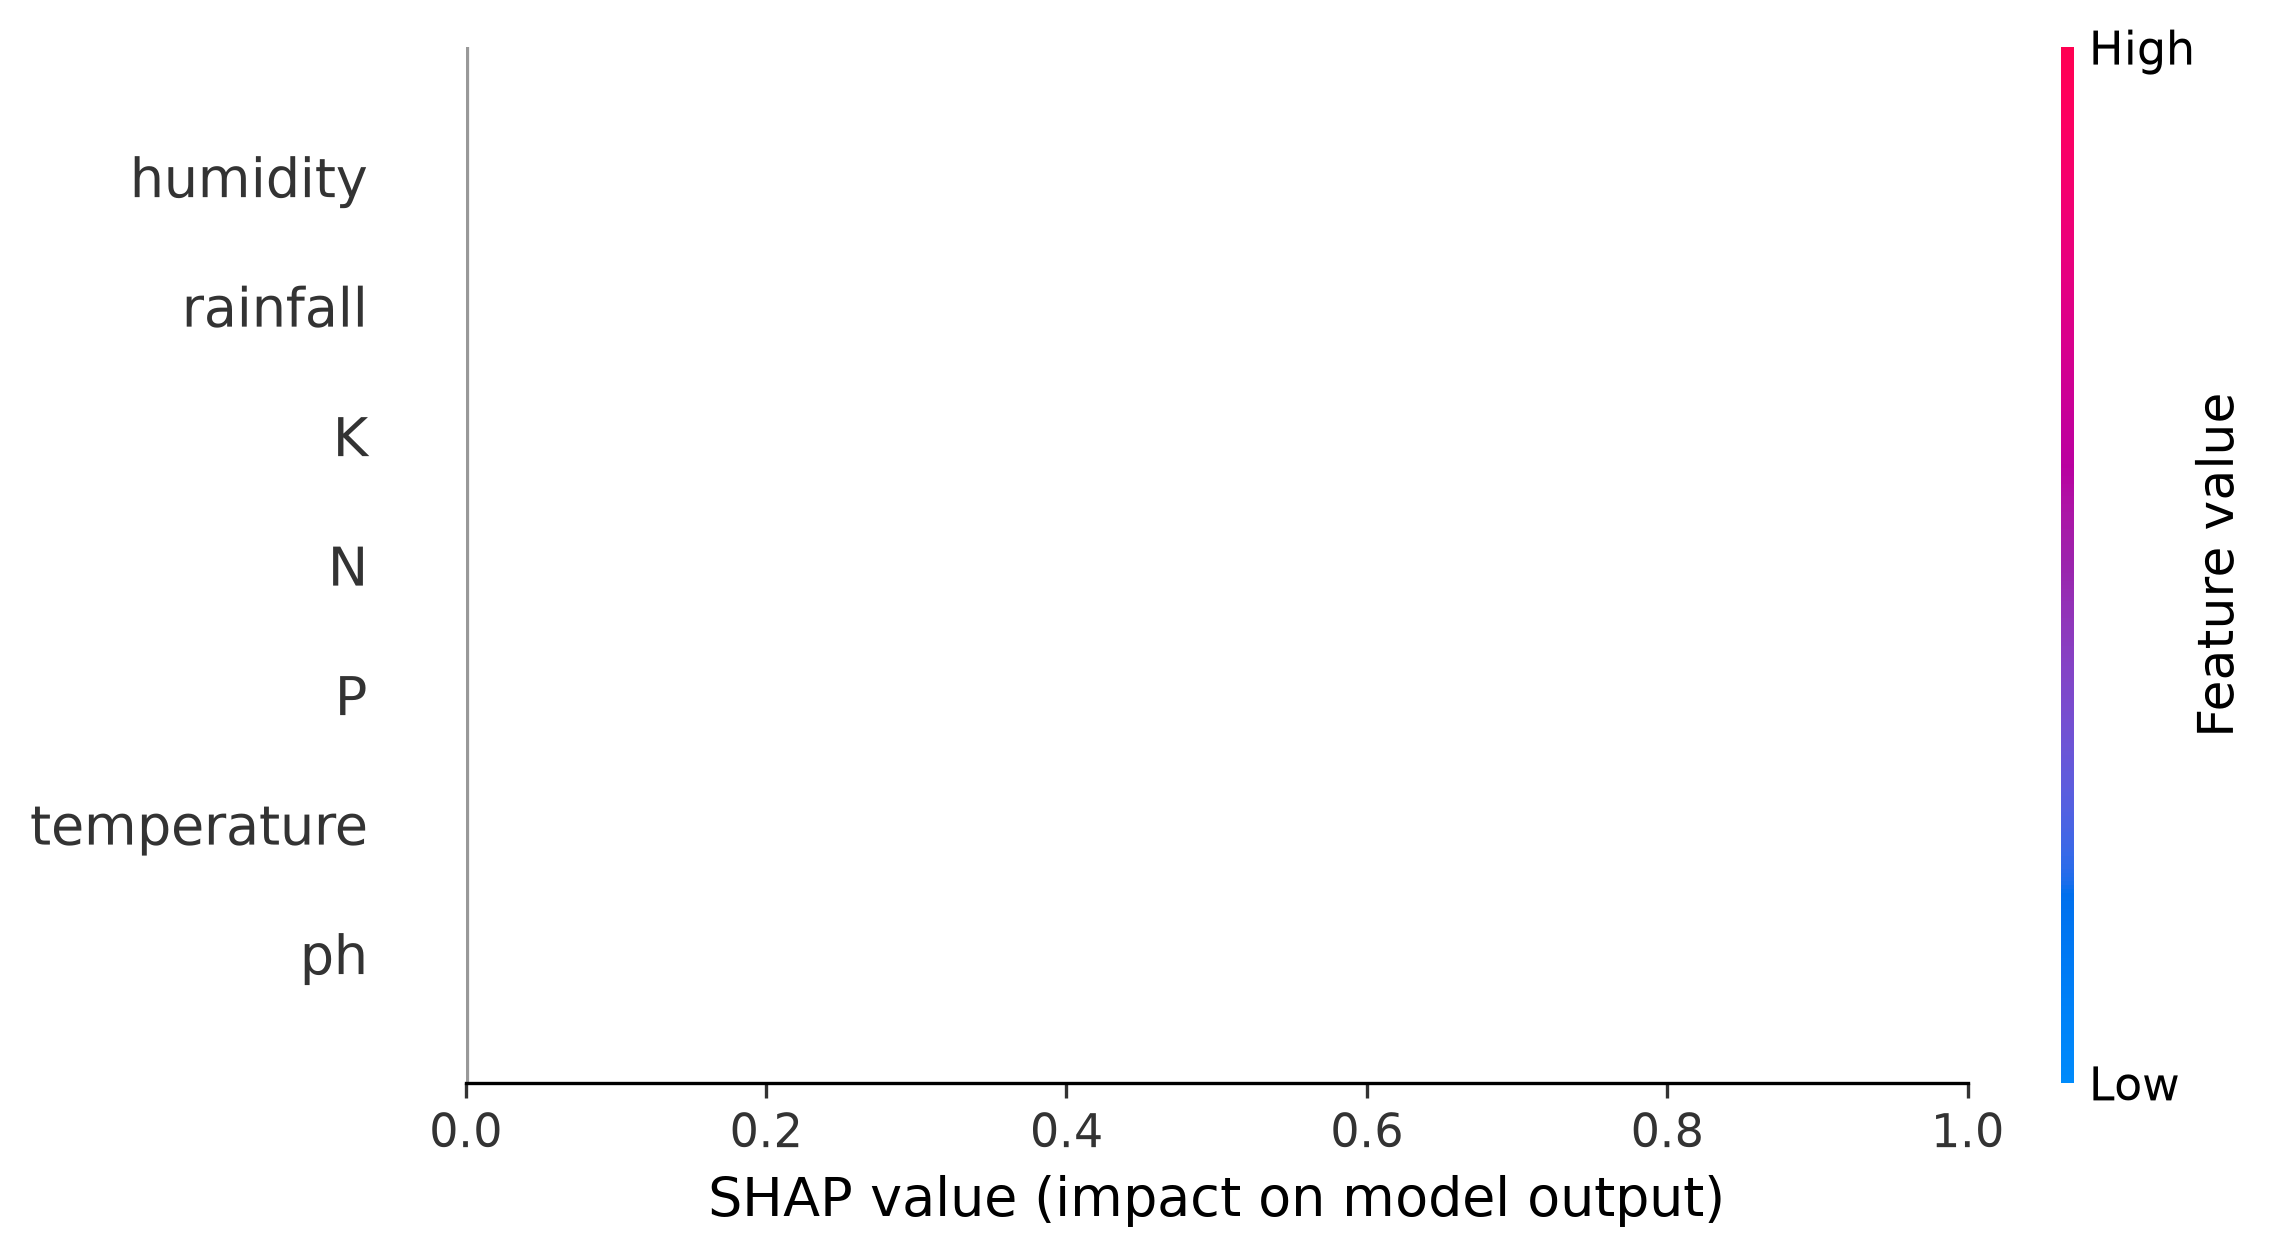
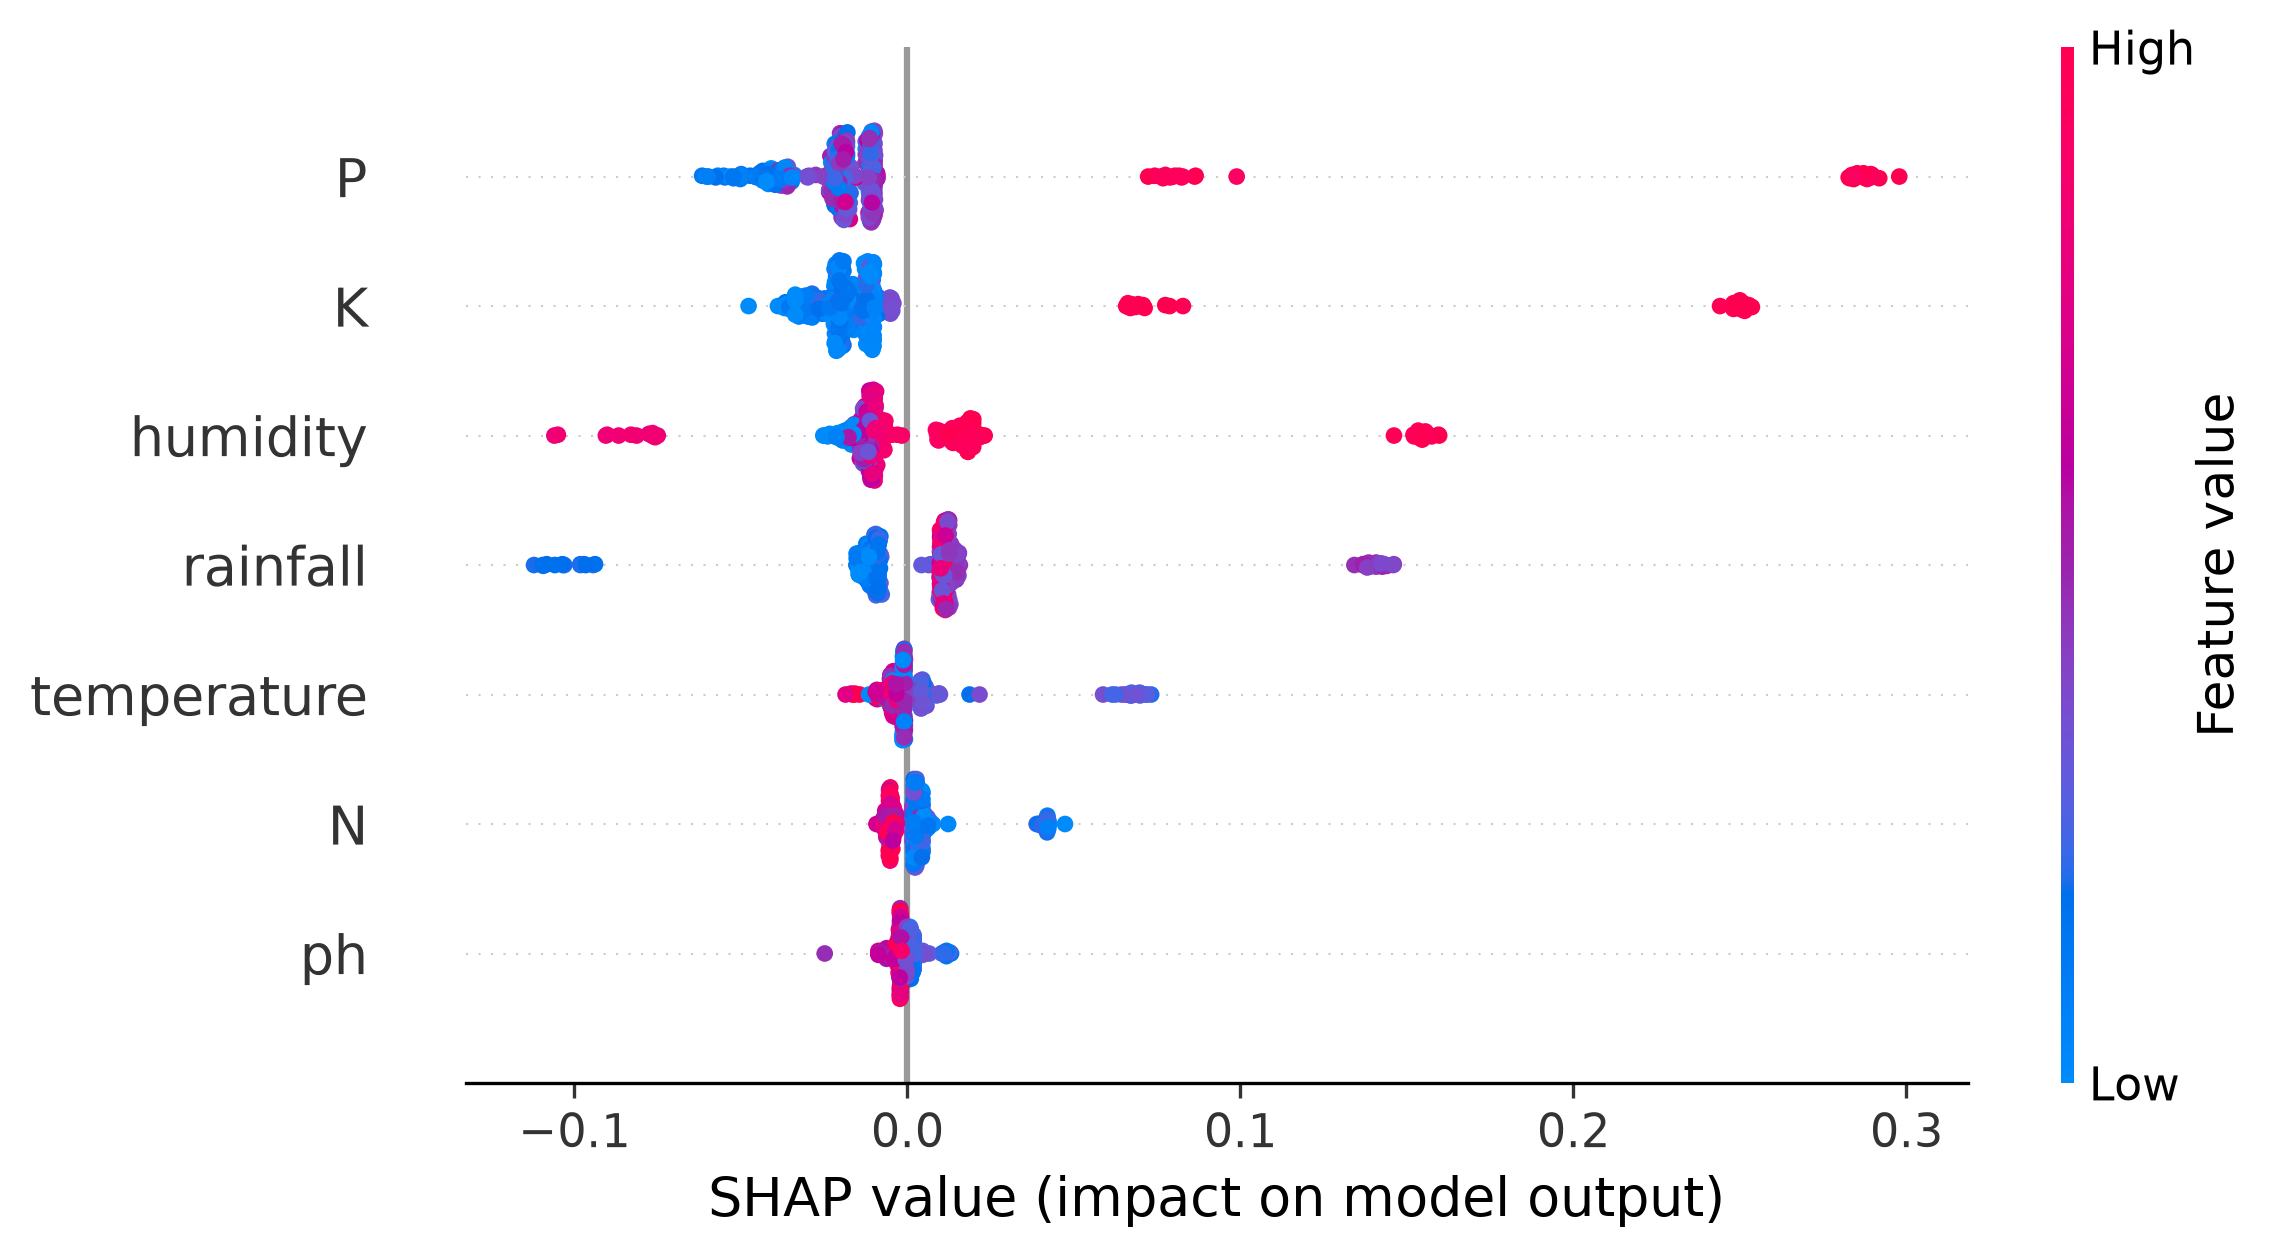
feat: add prediction pipeline and fix SHAP visualization logic

diff --git a/src/predict.py b/src/predict.py
@@ -1,0 +1,114 @@
+import inspect
+import joblib
+import numpy as np
+import pandas as pd
+import shap
+import matplotlib.pyplot as plt
+from pathlib import Path
+
+
+def predict_crop(n, p, k, temperature, humidity, ph, rainfall):
+    """Predict the recommended crop for the given environmental inputs."""
+    base_dir = Path(__file__).resolve().parent.parent
+    model_path = base_dir / "models" / "random_forest_model.pkl"
+    scaler_path = base_dir / "models" / "scaler.pkl"
+
+    if not model_path.exists():
+        raise FileNotFoundError(f"Model file not found: {model_path}")
+    if not scaler_path.exists():
+        raise FileNotFoundError(f"Scaler file not found: {scaler_path}")
+
+    clf = joblib.load(model_path)
+    scaler = joblib.load(scaler_path)
+
+    feature_names = ["N", "P", "K", "temperature", "humidity", "ph", "rainfall"]
+    features = pd.DataFrame(
+        [[n, p, k, temperature, humidity, ph, rainfall]],
+        columns=feature_names,
+        dtype=float,
+    )
+    scaled_features = scaler.transform(features)
+    prediction = clf.predict(scaled_features)[0]
+
+    crop_names = [
+        "apple",
+        "banana",
+        "blackgram",
+        "chickpea",
+        "coconut",
+        "coffee",
+        "cotton",
+        "grapes",
+        "jute",
+        "kidneybeans",
+        "lentil",
+        "maize",
+        "mango",
+        "mothbeans",
+        "mungbean",
+        "muskmelon",
+        "orange",
+        "papaya",
+        "pigeonpeas",
+        "pomegranate",
+        "rice",
+        "watermelon",
+    ]
+
+    crop = crop_names[int(prediction)] if isinstance(prediction, (int, np.integer)) else prediction
+    print(f"Recommended crop to grow: {crop}")
+
+    outputs_dir = base_dir / "outputs"
+    outputs_dir.mkdir(exist_ok=True)
+    explanation_path = outputs_dir / "single_prediction_explanation.png"
+
+    explainer = shap.TreeExplainer(clf)
+    shap_values = explainer.shap_values(scaled_features)
+
+    if hasattr(clf, "classes_") and len(clf.classes_) > 0:
+        class_values = np.asarray(clf.classes_)
+        if prediction in class_values:
+            predicted_class = int(np.where(class_values == prediction)[0][0])
+        else:
+            predicted_class = int(prediction)
+    else:
+        predicted_class = int(prediction)
+
+    if isinstance(shap_values, list):
+        if predicted_class < len(shap_values):
+            values_for_plot = shap_values[predicted_class][0]
+            base_value = explainer.expected_value[predicted_class]
+        else:
+            values_for_plot = shap_values[0][0]
+            base_value = explainer.expected_value[0]
+    elif isinstance(shap_values, np.ndarray) and shap_values.ndim == 3:
+        values_for_plot = shap_values[0, :, predicted_class]
+        base_value = explainer.expected_value[predicted_class]
+    else:
+        values_for_plot = shap_values[0] if isinstance(shap_values, np.ndarray) else shap_values
+        base_value = explainer.expected_value
+
+    explanation = shap.Explanation(
+        values=values_for_plot,
+        base_values=base_value,
+        data=scaled_features[0],
+        feature_names=feature_names,
+    )
+
+    bar_plot = shap.plots.bar
+    if "matplotlib" in inspect.signature(bar_plot).parameters:
+        bar_plot(explanation, show=False, matplotlib=True)
+    else:
+        bar_plot(explanation, show=False)
+    plt.tight_layout()
+    plt.savefig(str(explanation_path), dpi=300, bbox_inches="tight")
+    plt.close()
+    print(f"SHAP explanation saved to: {explanation_path}")
+
+    return crop
+
+
+if __name__ == "__main__":
+    print("Running sample prediction...")
+    
+    predict_crop(57,73,85,18.49311205,14.72115044,7.358099622,91.94595352)

diff --git a/src/explainability.py b/src/explainability.py
@@ -87,21 +87,16 @@ def generate_shap_analysis():
     
     # Also create a detailed beeswarm plot for better visualization
     print("Generating detailed SHAP beeswarm plot...")
-    plt.figure(figsize=(12, 8))
-    
-    # For beeswarm, we can use the mean SHAP values across classes
-    shap_values_mean = shap_values.mean(axis=2)  # Shape: (n_samples, n_features)
-    
-    # Use shap.summary_plot with plot_type='beeswarm'
-    shap.summary_plot(shap_values_mean, X_test_scaled, feature_names=feature_names, 
-                      plot_type="beeswarm", show=False)
-    
+    import matplotlib.pyplot as plt
+    plt.figure(figsize=(10, 6))
+
+    # Pass show=False to prevent SHAP from clearing the canvas
+    shap.plots.beeswarm(shap_values[:, :, 0], show=False)
+
     beeswarm_path = outputs_dir / "shap_beeswarm_detailed.png"
-    plt.tight_layout()
     plt.savefig(beeswarm_path, dpi=300, bbox_inches='tight')
+    plt.close()
     print(f"✓ SHAP beeswarm plot saved to {beeswarm_path}")
-    
-    plt.close('all')
     
     print("\n" + "="*60)
     print("SHAP ANALYSIS COMPLETE")